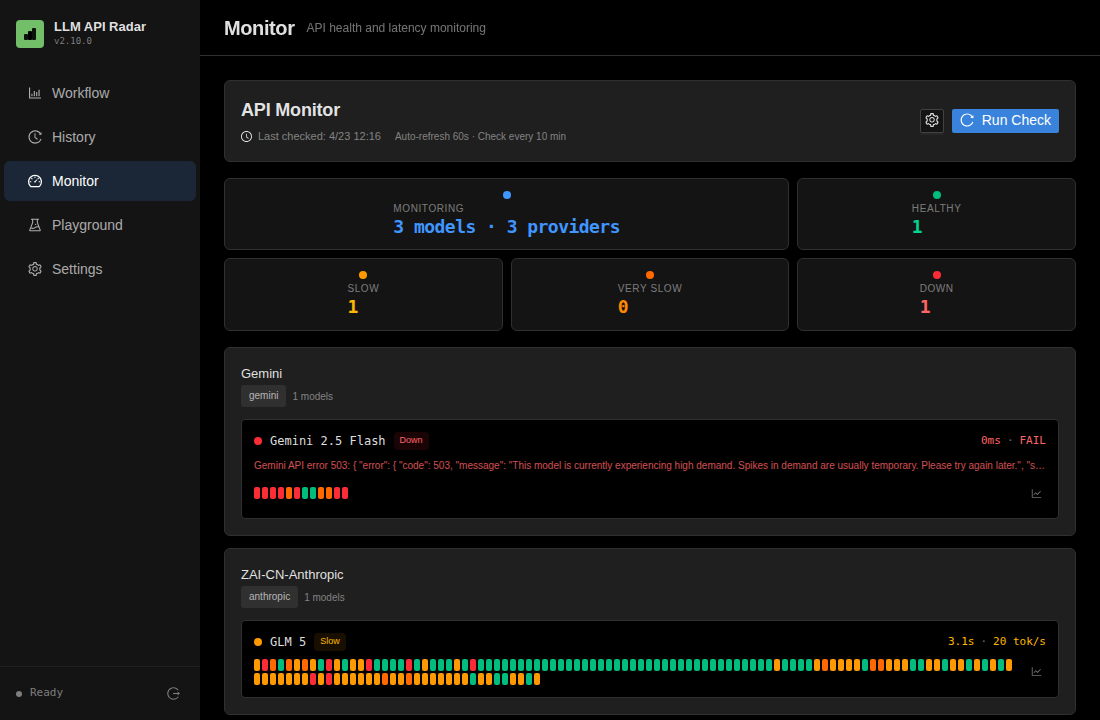
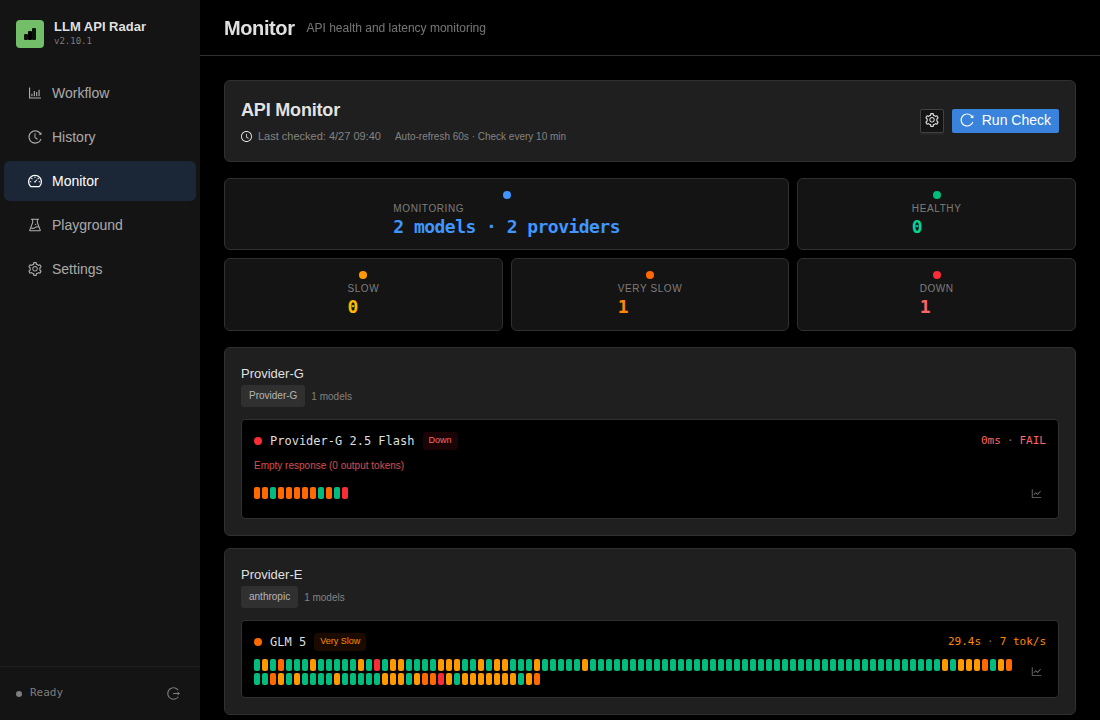
Release v2.11.1
- Add screenshot/GIF redaction for sensitive provider names, API URLs, and keys
- Fix Playground vision model detection and image upload state
- Fix Workflow SSE race condition on run completion
- Regenerate all screenshots and demo GIF with redacted content

diff --git a/frontend/src/components/PlaygroundPage.tsx b/frontend/src/components/PlaygroundPage.tsx
@@ -206,6 +206,16 @@ export function PlaygroundPage() {
     }
   }, [activeModels, modelName, setModelName]);
 
+  const selectedModel = useMemo(() => activeModels.find((m) => m.name === modelName), [activeModels, modelName]);
+  const supportsVision = selectedModel?.supportsVision ?? false;
+
+  // Clear uploaded images when switching to a non-vision model
+  useEffect(() => {
+    if (!supportsVision && images.length > 0) {
+      setImages([]);
+    }
+  }, [supportsVision]); // eslint-disable-line react-hooks/exhaustive-deps
+
   const canRun = providerId && modelName && prompt.trim();
 
   const setPromptSmart = (text: string) => {
@@ -566,13 +576,22 @@ export function PlaygroundPage() {
                   onChange={handleFileUpload}
                   className="hidden"
                 />
-                <Tooltip title="Add images (or paste / drag-and-drop)">
+                <Tooltip
+                  title={
+                    supportsVision
+                      ? 'Add images (or paste / drag-and-drop)'
+                      : 'This model does not support vision / image input'
+                  }
+                >
                   <button
-                    onClick={() => fileInputRef.current?.click()}
+                    onClick={() => supportsVision && fileInputRef.current?.click()}
+                    disabled={!supportsVision}
                     className={`flex items-center gap-1 text-[12px] px-2 py-1 rounded transition-colors ${
-                      images.length > 0
-                        ? 'text-accent-teal bg-accent-teal/10'
-                        : 'text-text-tertiary hover:text-text-secondary hover:bg-white/5'
+                      !supportsVision
+                        ? 'text-text-tertiary/40 cursor-not-allowed'
+                        : images.length > 0
+                          ? 'text-accent-teal bg-accent-teal/10'
+                          : 'text-text-tertiary hover:text-text-secondary hover:bg-white/5'
                     }`}
                   >
                     <PictureOutlined />

diff --git a/frontend/src/hooks/useWorkflow.ts b/frontend/src/hooks/useWorkflow.ts
@@ -206,9 +206,20 @@ export function useWorkflow(): UseWorkflowReturn {
           setLiveMetrics({});
           setCooldown(null);
           providerProgressRef.current = {};
-          fetchWorkflow(id);
-          fetchWorkflows();
+          // Clear ref BEFORE fetch so fetchWorkflow skips the stale ref check.
+          // Use the captured `id` (closure) to fetch final state directly.
           activeRunIdRef.current = null;
+          // Fetch final workflow state — bypass activeRunIdRef guard
+          (async () => {
+            try {
+              const res = await apiFetch(`/api/workflows/${id}`);
+              const data = await res.json();
+              setCurrentWorkflow(data);
+            } catch {
+              /* fetchWorkflows below will still refresh the list */
+            }
+          })();
+          fetchWorkflows();
         }
       };
 
@@ -216,8 +227,17 @@ export function useWorkflow(): UseWorkflowReturn {
         eventSource.close();
         eventSourceRef.current = null;
         setIsRunning(false);
-        fetchWorkflow(id);
         activeRunIdRef.current = null;
+        // Fetch latest state directly — bypass activeRunIdRef guard
+        (async () => {
+          try {
+            const res = await apiFetch(`/api/workflows/${id}`);
+            const data = await res.json();
+            setCurrentWorkflow(data);
+          } catch {
+            /* ignore */
+          }
+        })();
       };
     },
     [fetchWorkflow, fetchWorkflows],

diff --git a/docs/qa/e2e-checklist.md b/docs/qa/e2e-checklist.md
@@ -11,7 +11,7 @@ Run all cases during `/qa` regression testing. Mark each as PASS/FAIL/SKIP.
 - [ ] returnTo parameter → redirect to correct page after login
 - [ ] Sign out → redirect to login with returnTo
 
-## Workflow (8 cases)
+## Workflow (9 cases)
 
 - [ ] Empty name + no model → Start button disabled
 - [ ] Fill name + select model → Start button enabled with correct count
@@ -21,6 +21,7 @@ Run all cases during `/qa` regression testing. Mark each as PASS/FAIL/SKIP.
 - [ ] Stop on Failure switch → toggles correctly
 - [ ] Cooldown spinner → accepts value changes
 - [ ] Model toggle (select/deselect) → updates model count in Start button
+- [ ] Run workflow → completes with results displayed
 
 ## Playground (10 cases)
 
@@ -33,7 +34,7 @@ Run all cases during `/qa` regression testing. Mark each as PASS/FAIL/SKIP.
 - [ ] History sidebar: select entry → loads prompt + response
 - [ ] History sidebar: delete entry → count decreases
 - [ ] History sidebar: no nested button errors in console
-- [ ] Clear all history button → clears sidebar entries
+- [ ] Send prompt + receive streaming response
 
 ## History (6 cases)
 
@@ -71,7 +72,7 @@ Run all cases during `/qa` regression testing. Mark each as PASS/FAIL/SKIP.
 
 ---
 
-**Total: 43 cases**
+**Total: 44 cases**
 
 ## Regression Checks (run after bug fixes)
 

diff --git a/CHANGELOG.md b/CHANGELOG.md
@@ -4,6 +4,21 @@ All notable changes to this project will be documented in this file.
 
 The format is based on [Keep a Changelog](https://keepachangelog.com/), and this project adheres to [Semantic Versioning](https://semver.org/).
 
+## [2.11.1] - 2026-04-27
+
+### Added
+- Sensitive info redaction module (`scripts/redact-sensitive.mjs`) for screenshots and GIF recording — provider names, API URLs, and keys are automatically replaced with generic labels
+- Screenshot script (`take-screenshots.mjs`) now calls `redactPage()` before each capture
+- Demo recorder (`record-demo.mjs`) installs a persistent `MutationObserver` to redact text as React re-renders during screencast
+
+### Fixed
+- Playground: disable image upload button for non-vision models and clear uploaded images when switching to a non-vision model
+- Workflow SSE: fix race condition where `activeRunIdRef` was cleared after `fetchWorkflow`, causing stale state — now fetches final workflow state directly before clearing ref
+
+### Changed
+- Regenerated all 6 screenshots and demo GIF with redacted sensitive information
+- Removed `prettier` from frontend and backend devDependencies (unused)
+
 ## [2.11.0] - 2026-04-27
 
 ### Added
